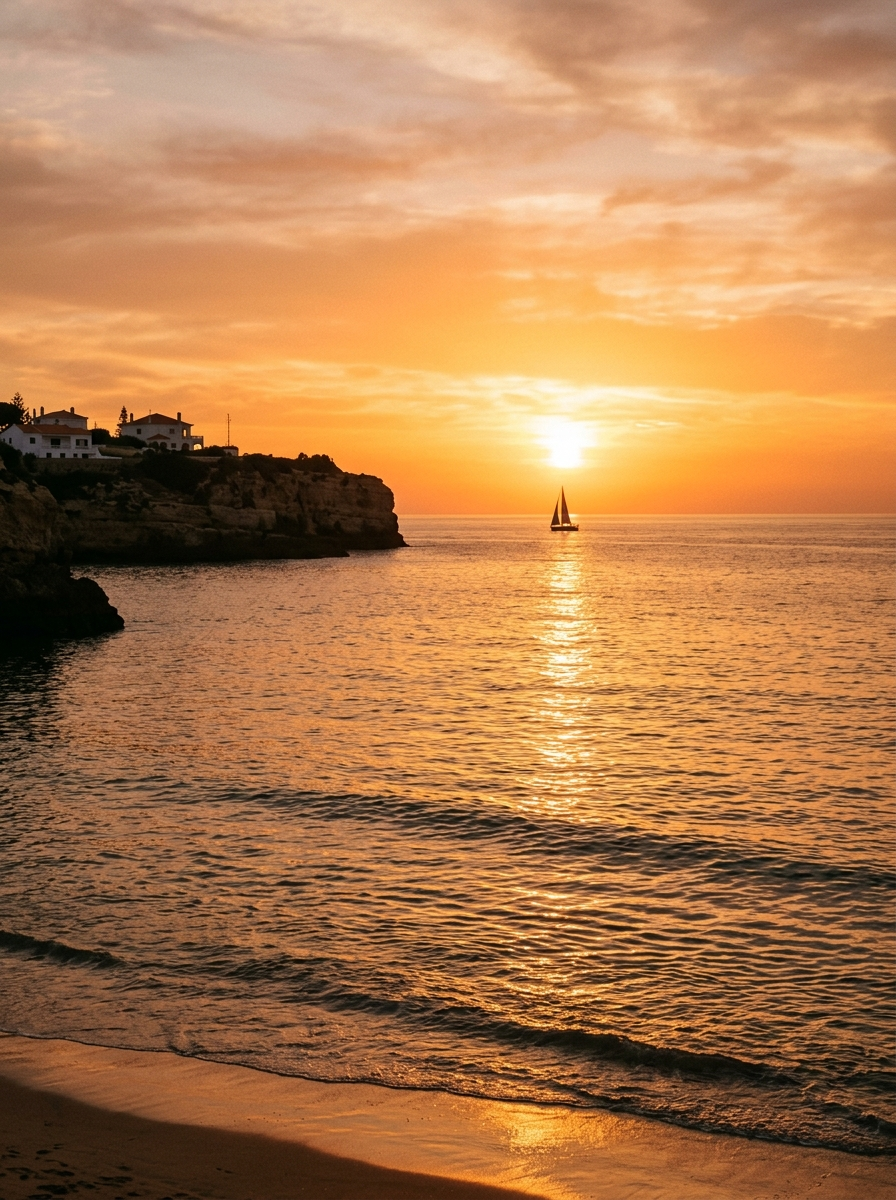
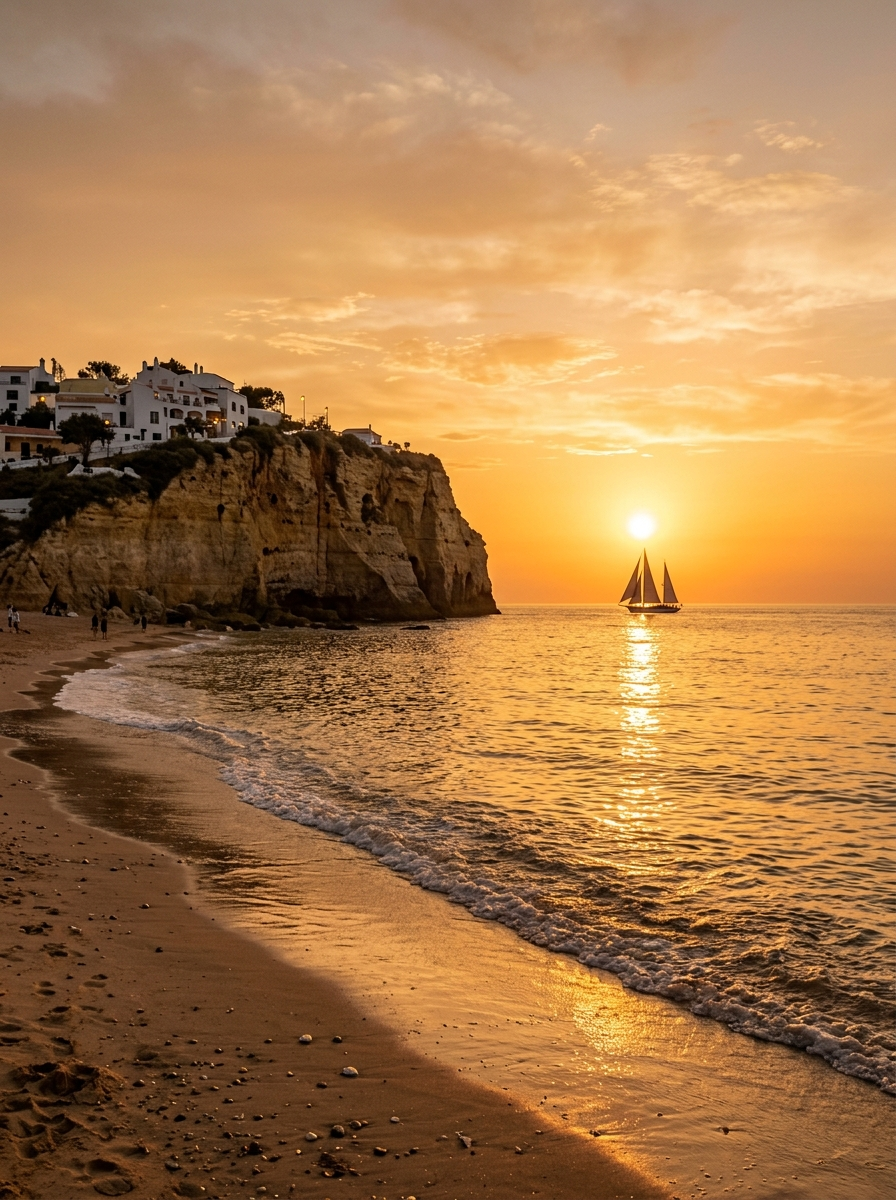
fix: update surf bootcamp image path and reference

diff --git a/src/data/mockData.ts b/src/data/mockData.ts
@@ -12,7 +12,7 @@ import {
 export const HERO_IMAGE = '/images/surf.png';
 export const SERGIO_PORTRAIT = '/images/sergio.jpeg';
 export const PADEL_ACTION_IMAGE = '/images/padel-1.JPG';
-export const SURF_BOOTCAMP_IMAGE = '/images/surf_bootcamp_group_1786008997192.jpg';
+export const SURF_BOOTCAMP_IMAGE = '/images/surftrip group .JPG';
 export const SURF_GROUP_EXPERIENCE_IMAGE = '/images/surf_group_experience_1787149621419.jpg';
 export const SUP_PADDLE_IMAGE = '/images/stand_up_paddle_kas_1787150261094.jpg';
 export const PRIVATE_SURF_SUNSET_IMAGE = '/images/por_do_sol.jpg';
